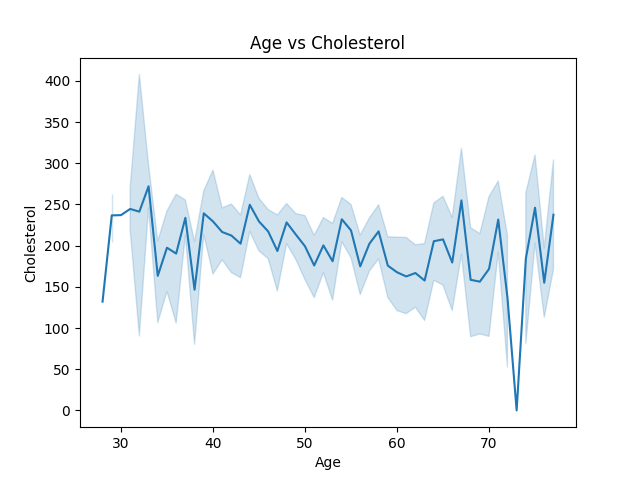
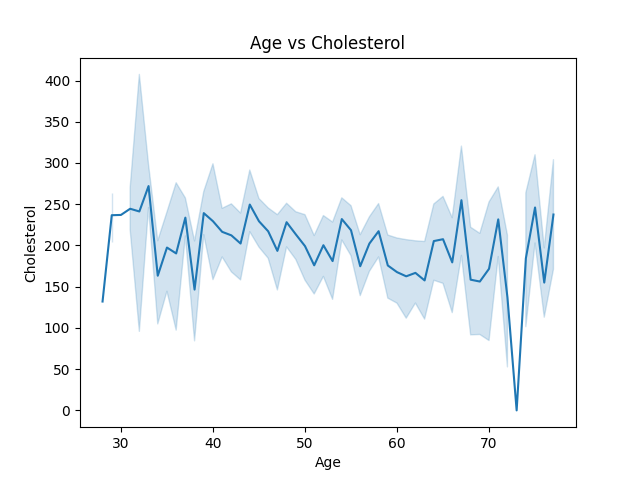
Updated

diff --git a/app.py b/app.py
@@ -74,7 +74,14 @@ with col1:
     ChestPainType = st.selectbox("Chest Pain Type", ["ATA", "NAP", "ASY", "TA"])
     RestingBP = st.slider("Resting Blood Pressure", 80, 200, 120)
     Cholesterol = st.slider("Cholesterol", 100, 400, 200)
-    FastingBS = st.selectbox("Fasting Blood Sugar > 120", [0, 1])
+    FastingBS_option = st.selectbox(
+    "Fasting Blood Sugar",
+    ["Normal", "High"],
+    help="Normal: ≤ 120 mg/dL | High: > 120 mg/dL"
+)
+
+# Convert to model input
+    FastingBS = 1 if FastingBS_option == "High" else 0
 
 with col2:
     st.subheader("📊 Medical Details")